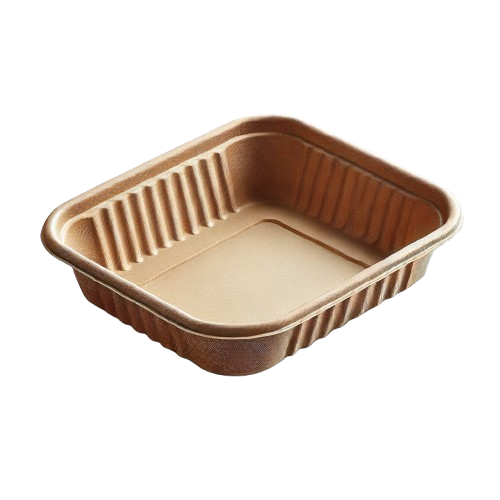
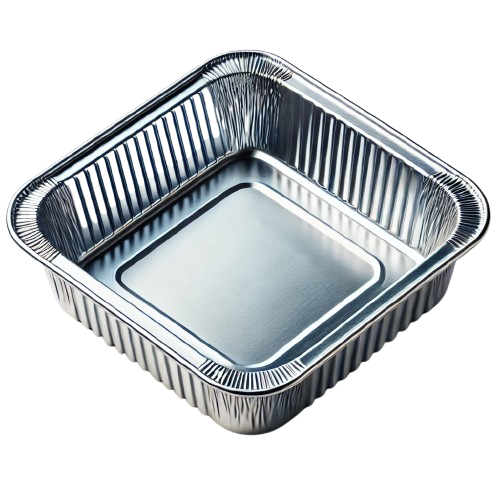
Cambio de imagen bandeja

diff --git a/assets/css/style.css b/assets/css/style.css
@@ -102,9 +102,7 @@
     font-weight: bold;
 }
 
-.category-card p {
-    
-}
+
 .span1{
     color: rgb(64, 213, 31);
     font-weight: bold;
